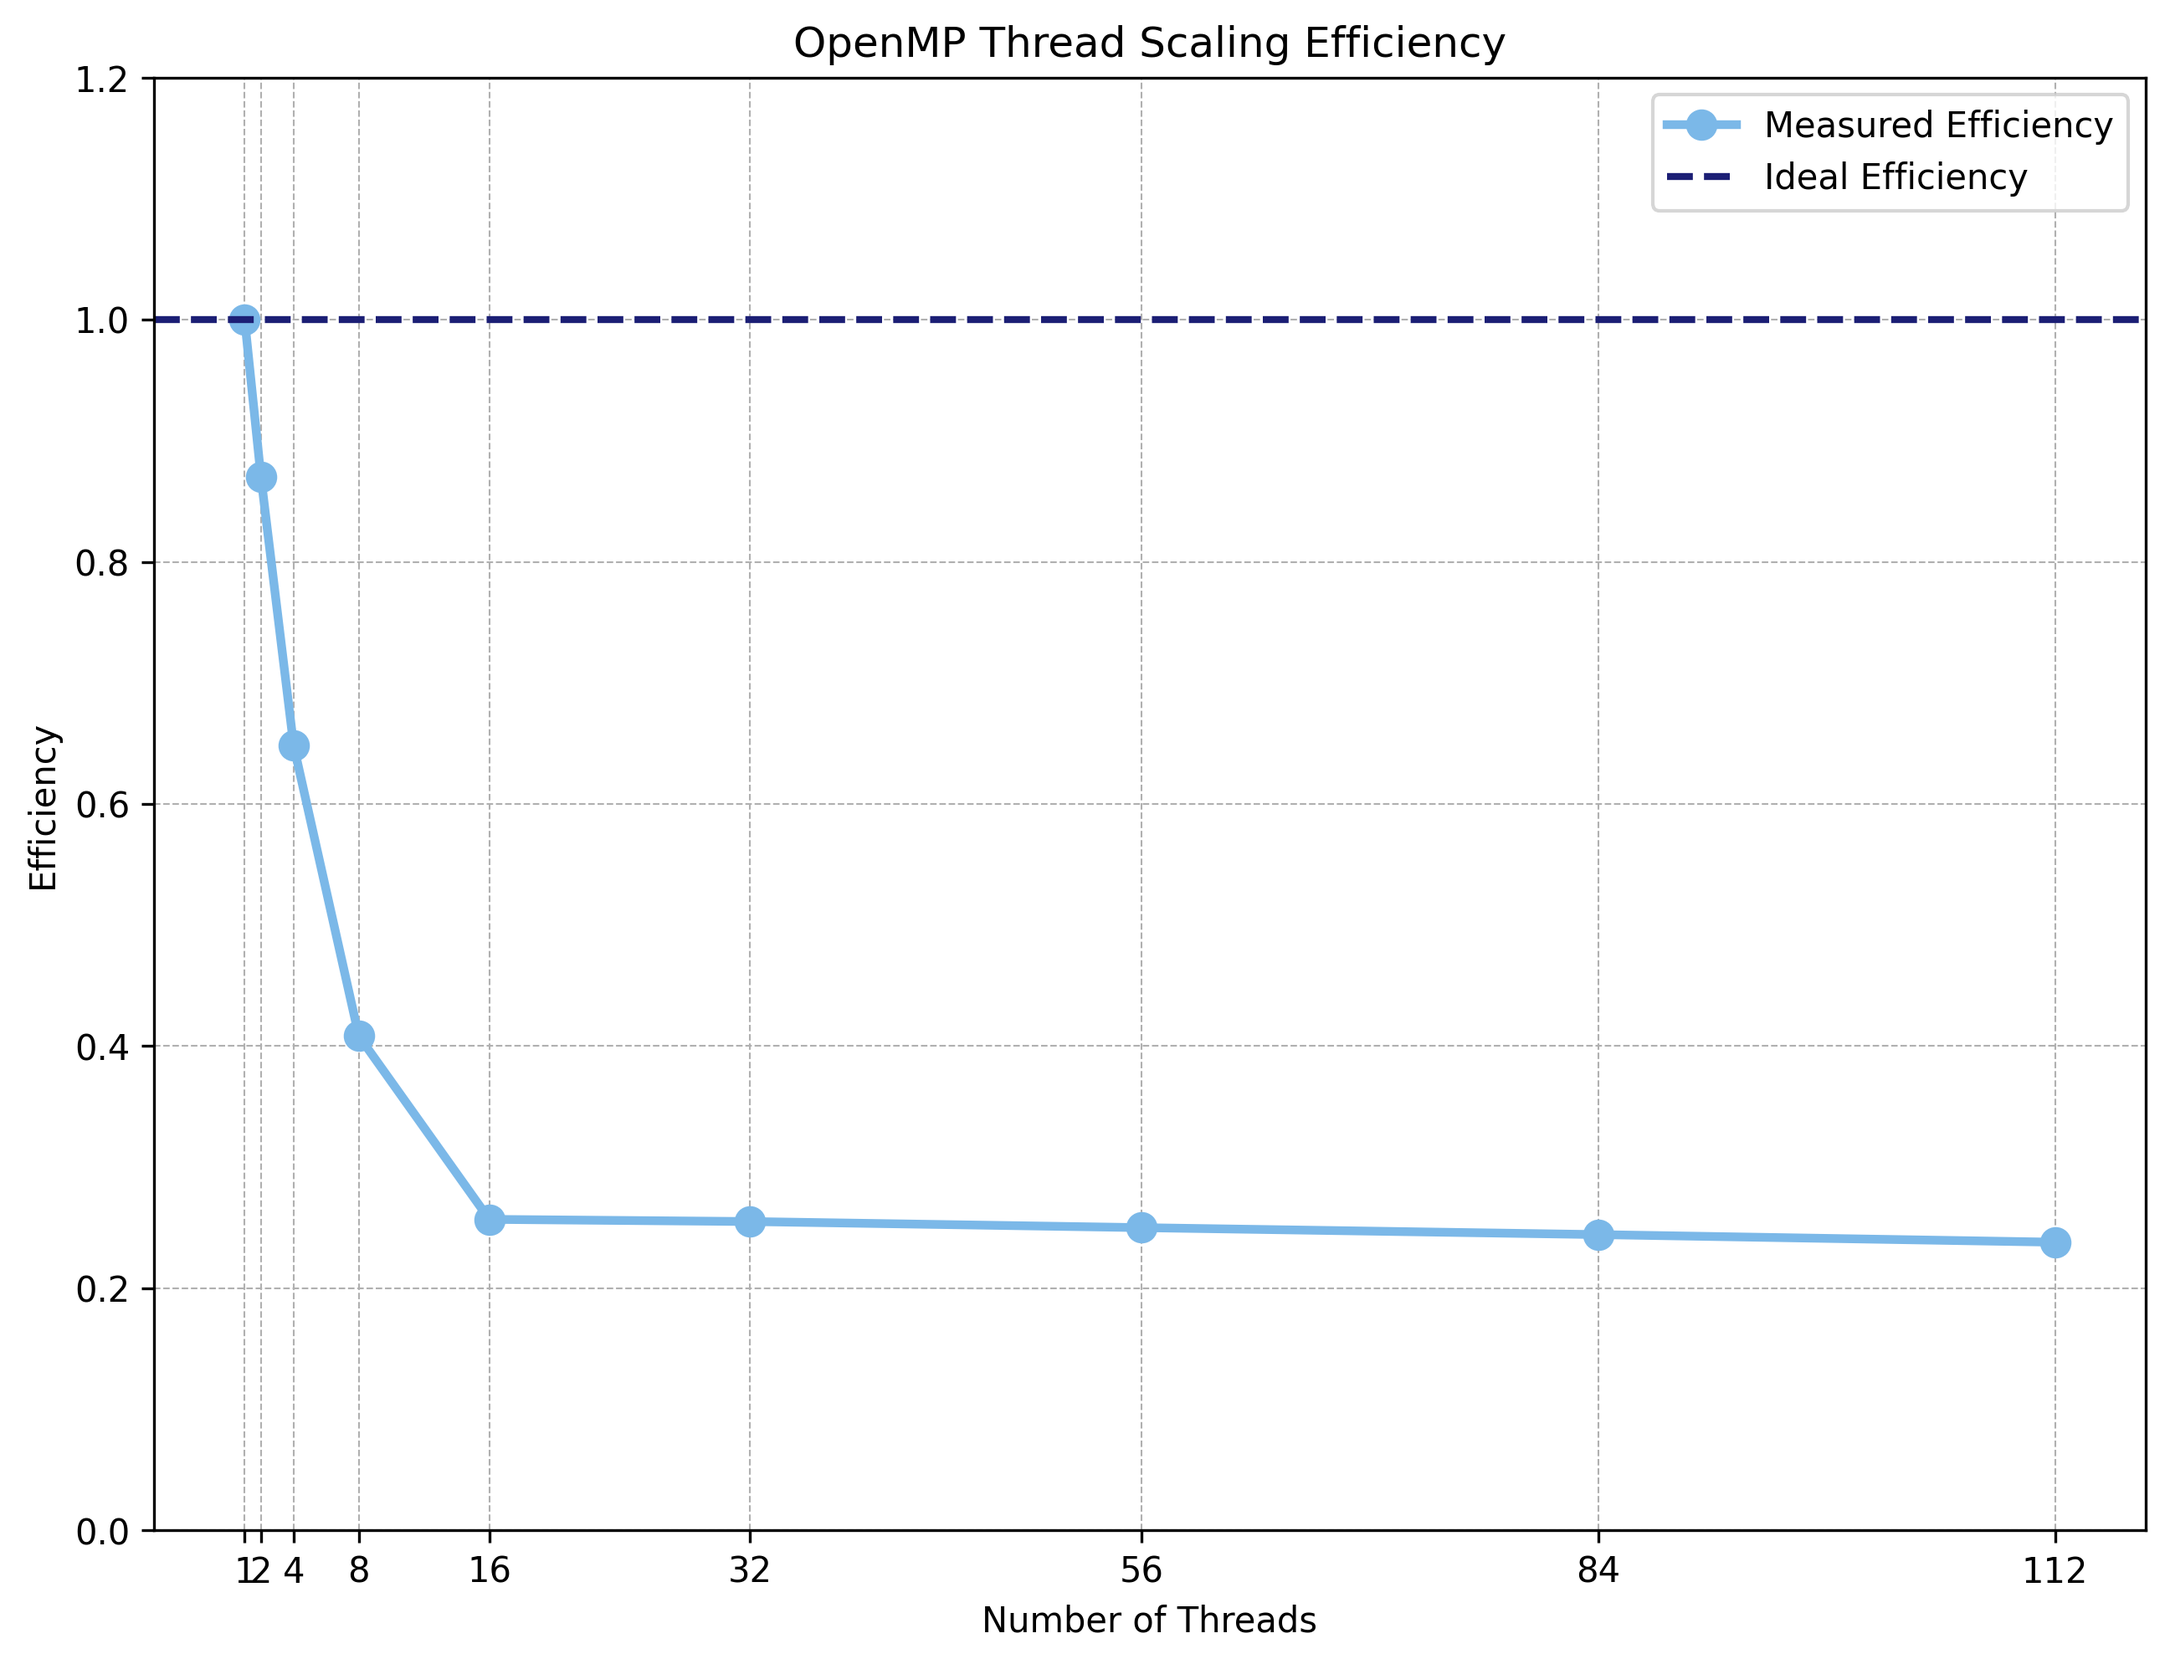
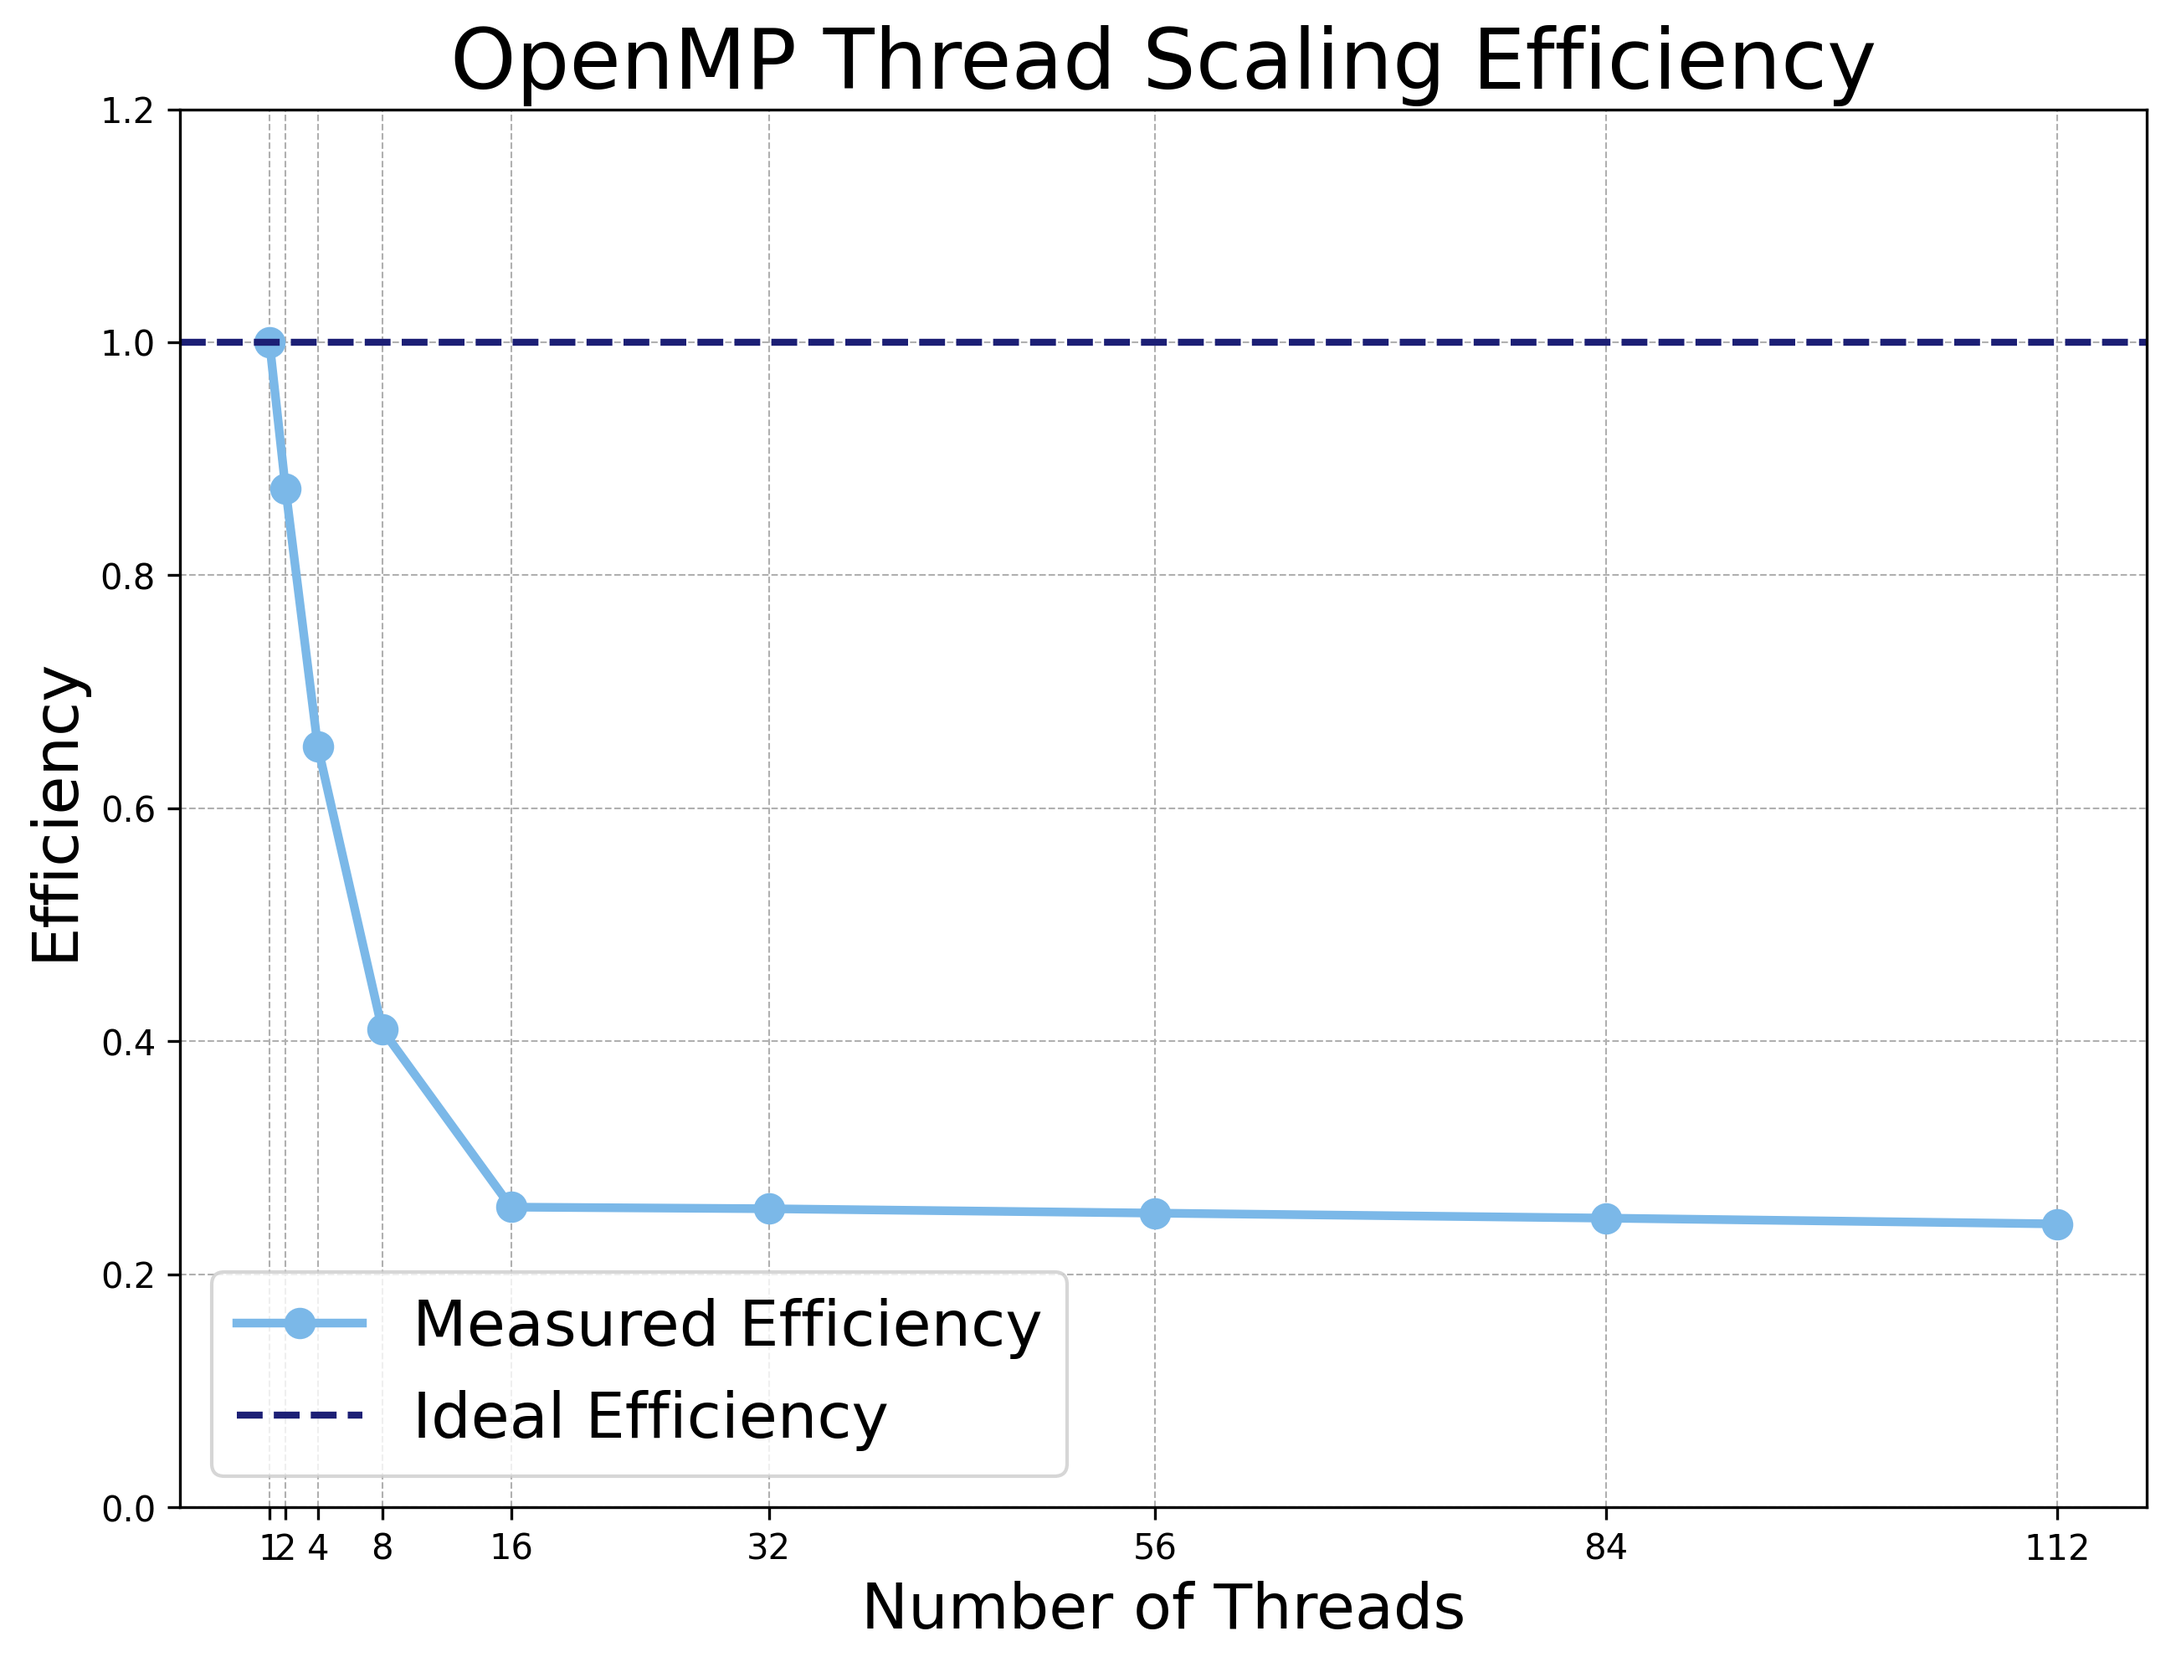
updated plots

Changed region(s): [[0.0, 0.0312, 0.9996, 0.9975], [0.1874, 0.0, 0.9996, 0.1247], [0.3436, 0.4676, 0.3749, 0.4987]]

diff --git a/analysis/plot.py b/analysis/plot.py
@@ -41,13 +41,13 @@ def plot_strong_speedup(data, output_folder):
         baseline_time = grouped.iloc[0]
         speedup = baseline_time / grouped.values
         ideal_speedup = nodes / nodes[0]
-        plt.figure(figsize=(9, 7))
+        plt.figure(figsize=(9,7))
         plt.plot(nodes, speedup, color=strong_color, marker='o', linewidth=2.5, markersize=8, label='Measured Speedup')  # Azzurro
         plt.plot(nodes, ideal_speedup, color=ideal_color, linestyle='--', linewidth=2, label='Ideal Speedup')  # Giallo limone
-        plt.xlabel('Number of nodes')
-        plt.ylabel('Speedup')
-        plt.title('Strong Scaling Speedup (as a function of nodes)')
-        plt.legend()
+        plt.xlabel('Number of nodes', fontsize=18)
+        plt.ylabel('Speedup', fontsize=18)
+        plt.title('Strong Scaling Speedup (as a function of nodes)', fontsize=24)
+        plt.legend(fontsize=18)
         plt.grid(True, which='both', linestyle='--', linewidth=0.5)
         plt.xticks(nodes)
         plt.ylim(bottom=0)
@@ -63,13 +63,13 @@ def plot_omp_speedup(data, output_folder):
         baseline_time = grouped.iloc[0]
         speedup = baseline_time / grouped.values
         ideal_speedup = threads
-        plt.figure(figsize=(9, 7))
+        plt.figure(figsize=(9,7))
         plt.plot(threads, speedup, color=omp_color, marker='o', linewidth=2.5, markersize=8, label='Measured Speedup')  # Verde acqua
         plt.plot(threads, ideal_speedup, color=ideal_color, linestyle='--', linewidth=2, label='Ideal Speedup')  # Giallo limone
-        plt.xlabel('Number of Threads')
-        plt.ylabel('Speedup')
-        plt.title('OpenMP Thread Scaling Speedup')
-        plt.legend()
+        plt.xlabel('Number of Threads', fontsize=18)
+        plt.ylabel('Speedup', fontsize=18)
+        plt.title('OpenMP Thread Scaling Speedup', fontsize=24)
+        plt.legend(fontsize=18)
         plt.grid(True, which='both', linestyle='--', linewidth=0.5)
         plt.xticks(threads)
         plt.ylim(bottom=0)
@@ -85,13 +85,13 @@ def plot_strong_efficiency(data, output_folder):
         baseline_time = grouped.iloc[0]
         speedup = baseline_time / grouped.values
         efficiency = speedup / (nodes / nodes[0])
-        plt.figure(figsize=(9, 7))
+        plt.figure(figsize=(9,7))
         plt.plot(nodes, efficiency, color=strong_color, marker='o', linewidth=2.5, markersize=8, label='Measured Efficiency')  # Turchese
         plt.axhline(y=1.0, color=ideal_color, linestyle='--', linewidth=2, label='Ideal Efficiency')  # Giallo limone
-        plt.xlabel('Number of nodes')
-        plt.ylabel('Efficiency')
-        plt.title('Strong Scaling Efficiency (as a function of nodes)')
-        plt.legend()
+        plt.xlabel('Number of nodes', fontsize=18)
+        plt.ylabel('Efficiency', fontsize=18)
+        plt.title('Strong Scaling Efficiency (as a function of nodes)', fontsize=24)
+        plt.legend(fontsize=18)
         plt.grid(True, which='both', linestyle='--', linewidth=0.5)
         plt.xticks(nodes)
         plt.ylim(0, 1.2)
@@ -107,13 +107,13 @@ def plot_omp_efficiency(data, output_folder):
         baseline_time = grouped.iloc[0]
         speedup = baseline_time / grouped.values
         efficiency = speedup / threads
-        plt.figure(figsize=(9, 7))
+        plt.figure(figsize=(9,7))
         plt.plot(threads, efficiency, color=omp_color, marker='o', linewidth=2.5, markersize=8, label='Measured Efficiency')  # Verde lime
         plt.axhline(y=1.0, color=ideal_color, linestyle='--', linewidth=2, label='Ideal Efficiency')  # Giallo limone
-        plt.xlabel('Number of Threads')
-        plt.ylabel('Efficiency')
-        plt.title('OpenMP Thread Scaling Efficiency')
-        plt.legend()
+        plt.xlabel('Number of Threads', fontsize=18)
+        plt.ylabel('Efficiency', fontsize=18)
+        plt.title('OpenMP Thread Scaling Efficiency', fontsize=24)
+        plt.legend(fontsize=18)
         plt.grid(True, which='both', linestyle='--', linewidth=0.5)
         plt.xticks(threads)
         plt.ylim(0, 1.2)
@@ -128,13 +128,13 @@ def plot_weak_efficiency(data, output_folder):
         nodes = grouped.index.values
         baseline_time = grouped.iloc[0]
         efficiency = baseline_time / grouped.values
-        plt.figure(figsize=(9, 7))
+        plt.figure(figsize=(9,7))
         plt.plot(nodes, efficiency, color=weak_color, marker='o', linewidth=2.5, markersize=8, label='Measured Efficiency')  # Corallo
         plt.axhline(y=1.0, color=ideal_color, linestyle='--', linewidth=2, label='Ideal Efficiency')  # Giallo limone
-        plt.xlabel('Number of Nodes')
-        plt.ylabel('Efficiency')
-        plt.title('Weak Scaling Efficiency')
-        plt.legend()
+        plt.xlabel('Number of Nodes', fontsize=18)
+        plt.ylabel('Efficiency', fontsize=18)
+        plt.title('Weak Scaling Efficiency', fontsize=24)
+        plt.legend(fontsize=18)
         plt.grid(True, which='both', linestyle='--', linewidth=0.5)
         plt.xticks(nodes)
         plt.ylim(0, 1.2)
@@ -147,14 +147,14 @@ def plot_strong_time(data, output_folder):
         strong_data = data['strong']
         grouped = strong_data.groupby('Nodes').mean(numeric_only=True).sort_index()
         nodes = grouped.index
-        plt.figure(figsize=(9, 7))
+        plt.figure(figsize=(9,7))
         plt.plot(nodes, grouped['ComputationTime'], color=computation_color, marker='s', linewidth=2, markersize=6, label='Computation Time')  # Azzurro
         plt.plot(nodes, grouped['CommunicationTime'], color=communication_color, marker='^', linewidth=2, markersize=6, label='Communication Time')  # Verde acqua
         plt.plot(nodes, grouped['TotalTime'], color=total_color, marker='o', linewidth=2, markersize=8, label='Total Time')  # Blu cielo
-        plt.xlabel('Number of nodes')
-        plt.ylabel('Time (seconds)')
-        plt.title('Strong Scaling - Execution Time (as a function of nodes)')
-        plt.legend()
+        plt.xlabel('Number of nodes', fontsize=18)
+        plt.ylabel('Time (seconds)', fontsize=18)
+        plt.title('Strong Scaling - Execution Time (as a function of nodes)', fontsize=24)
+        plt.legend(fontsize=18)
         plt.grid(True, which='both', linestyle='--', linewidth=0.5)
         plt.xticks(nodes)
         plt.tight_layout(pad=2.0)
@@ -166,14 +166,14 @@ def plot_omp_time(data, output_folder):
         omp_data = data['omp']
         grouped = omp_data.groupby('ThreadsPerTask').mean(numeric_only=True).sort_index()
         threads = grouped.index
-        plt.figure(figsize=(9, 7))
+        plt.figure(figsize=(9,7))
         plt.plot(threads, grouped['ComputationTime'], color=computation_color, marker='s', linewidth=2, markersize=6, label='Computation Time')  # Azzurro
         plt.plot(threads, grouped['CommunicationTime'], color=communication_color, marker='^', linewidth=2, markersize=6, label='Communication Time')  # Verde acqua
         plt.plot(threads, grouped['TotalTime'], color=total_color, marker='o', linewidth=2, markersize=8, label='Total Time')  # Blu cielo
-        plt.xlabel('Number of Threads')
-        plt.ylabel('Time (seconds)')
-        plt.title('OpenMP Scaling - Execution Time')
-        plt.legend()
+        plt.xlabel('Number of Threads', fontsize=18)
+        plt.ylabel('Time (seconds)', fontsize=18)
+        plt.title('OpenMP Scaling - Execution Time', fontsize=24)
+        plt.legend(fontsize=18)
         plt.grid(True, which='both', linestyle='--', linewidth=0.5)
         plt.xticks(threads)
         plt.tight_layout(pad=2.0)
@@ -185,25 +185,57 @@ def plot_weak_time(data, output_folder):
         weak_data = data['weak']
         grouped = weak_data.groupby('Nodes').mean(numeric_only=True).sort_index()
         nodes = grouped.index
-        plt.figure(figsize=(9, 7))
+        plt.figure(figsize=(9,7))
         plt.plot(nodes, grouped['ComputationTime'], color=computation_color, marker='s', linewidth=2, markersize=6, label='Computation Time')  # Azzurro
         plt.plot(nodes, grouped['CommunicationTime'], color=communication_color, marker='^', linewidth=2, markersize=6, label='Communication Time')  # Verde acqua
         plt.plot(nodes, grouped['TotalTime'], color=total_color, marker='o', linewidth=2, markersize=8, label='Total Time')  # Blu cielo
-        plt.xlabel('Number of Nodes')
-        plt.ylabel('Time (seconds)')
-        plt.title('Weak Scaling - Execution Time')
-        plt.legend()
+        plt.xlabel('Number of Nodes', fontsize=18)
+        plt.ylabel('Time (seconds)', fontsize=18)
+        plt.title('Weak Scaling - Execution Time', fontsize=24)
+        plt.legend(fontsize=18)
         plt.grid(True, which='both', linestyle='--', linewidth=0.5)
         plt.xticks(nodes)
         plt.tight_layout(pad=2.0)
         plt.savefig(os.path.join(output_folder, 'time_weak.png'), dpi=300, bbox_inches='tight')
         plt.close()
 
+def plot_strong_overlap_comparison(overlap_path, no_overlap_path, output_folder):
+    """Plot TotalTime vs Nodes for strong scaling with and without overlap."""
+    import pandas as pd
+    import os
+    import matplotlib.pyplot as plt
+    # Read both CSVs
+    df_overlap = pd.read_csv(overlap_path)
+    df_no_overlap = pd.read_csv(no_overlap_path)
+    # Ensure numeric
+    for df in [df_overlap, df_no_overlap]:
+        for col in ['Nodes', 'TotalTime']:
+            if col in df.columns:
+                df[col] = pd.to_numeric(df[col], errors='coerce')
+    # Group by Nodes and average if needed
+    overlap_grouped = df_overlap.groupby('Nodes')['TotalTime'].mean().sort_index()
+    no_overlap_grouped = df_no_overlap.groupby('Nodes')['TotalTime'].mean().sort_index()
+    nodes = sorted(set(overlap_grouped.index).intersection(no_overlap_grouped.index))
+    plt.figure(figsize=(8, 6))
+    plt.plot(nodes, [overlap_grouped[n] for n in nodes], marker='o', linewidth=2.5, label='With Overlap')
+    plt.plot(nodes, [no_overlap_grouped[n] for n in nodes], marker='o', linewidth=2.5, label='No Overlap')
+    plt.xlabel('Number of Nodes', fontsize=18)
+    plt.ylabel('Total Execution Time (s)', fontsize=18)
+    plt.title('Strong Scaling: Overlap vs No Overlap', fontsize=24)
+    plt.legend(fontsize=18)
+    plt.grid(True, which='both', linestyle='--', linewidth=0.5)
+    plt.xticks(nodes)
+    plt.tight_layout(pad=2.0)
+    plt.savefig(os.path.join(output_folder, 'strong_overlap_comparison.png'), dpi=300, bbox_inches='tight')
+    plt.close()
+
 def main():
     parser = argparse.ArgumentParser(description='Plot the results of the parallel stencil code')
     parser.add_argument('--data-folder', type=str, default='data', help='Path to the data folder')
     parser.add_argument('--output-folder', type=str, default='plots', help='Path to the output folder')
-    parser.add_argument('--plot-type', type=str, nargs='+', default=['all'], help='Type(s) of plot to generate', choices=['speedup', 'efficiency', 'time', 'all'])
+    parser.add_argument('--plot-type', type=str, nargs='+', default=['all'], help='Type(s) of plot to generate', choices=['speedup', 'efficiency', 'time', 'overlap', 'all'])
+    parser.add_argument('--strong-overlap', type=str, default='data/strong_results', help='Path to strong_results.csv (with overlap)')
+    parser.add_argument('--strong-no-overlap', type=str, default='data/strong_results_no_overlap.csv', help='Path to strong_results_no_overlap.csv (no overlap)')
     args = parser.parse_args()
     os.makedirs(args.output_folder, exist_ok=True)
     plot_types = args.plot_type
@@ -227,6 +259,12 @@ def main():
         plot_omp_time(data, args.output_folder)
         print("Generating weak time plot...")
         plot_weak_time(data, args.output_folder)
+    if 'all' in plot_types or 'overlap' in plot_types:
+        if args.strong_overlap and args.strong_no_overlap:
+            print("Generating strong overlap comparison plot...")
+            plot_strong_overlap_comparison(args.strong_overlap, args.strong_no_overlap, args.output_folder)
+        else:
+            print("Error: --strong-overlap and --strong-no-overlap must be provided for overlap plot.")
 
 if __name__ == "__main__":
     main()
